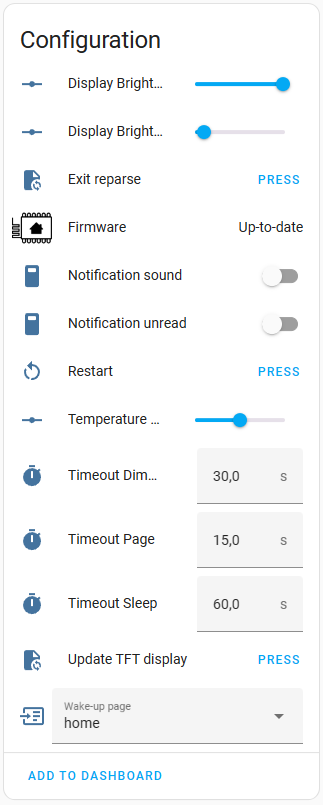
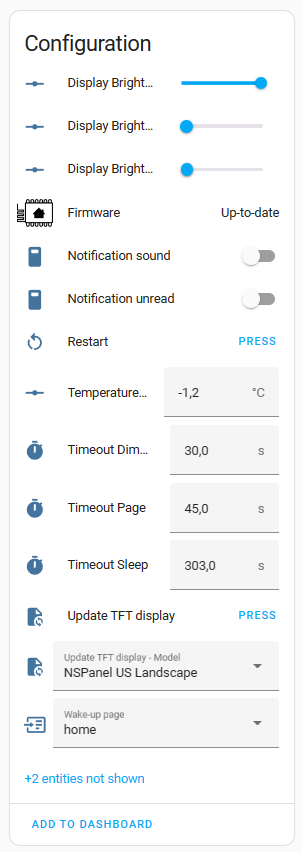
Uploading to Nextion

diff --git a/docs/install.md b/docs/install.md
@@ -103,7 +103,9 @@ Follow these steps to add a new device in the ESPHome Dashboard:
 
 10. For Wi-Fi credentials, use `!secret` for added security or input them directly. Learn about secrets in ESPHome: [Home Assistant Secrets in ESPHome](https://www.youtube.com/watch?v=eW4vKDeHh7Y).
 
-11. Optionally, adjust `nextion_update_url` to the URL of a TFT file hosted on an HTTP or HTTPS server, ensuring that the file is accessible to the NSPanel. This URL will be used by ESPHome to download the TFT file to your panel. For more information on hosting the TFT file and setting up the URL, see the [Upload TFT](#upload-tft) section.
+11. Optionally, adjust `nextion_update_url` to the URL of a TFT file hosted on an HTTP or HTTPS server, ensuring that the file is accessible to the NSPanel.
+This URL will be used by ESPHome to download the TFT file to your panel.
+For more information on hosting the TFT file and setting up the URL, see the [Upload TFT](#upload-tft) section.
 
 12. (Optional) Enhance security with API encryption by adding the copied key from step 6 to the **My Customization** area.
 
@@ -153,8 +155,8 @@ If that isn't happnening, you can manually add it as a new intgration with the f
 > to go directly to the dialog to add a new ESPHome device,
 > then you can go directly to step 3.
 
-1. Go to your [ESPHome integration's dashboard](https://my.home-assistant.io/redirect/integration/?domain=esphome) under **Settings** > **Devices & Services** > **ESPHome**.
-2. If your panel is detected, just click **Configure**, otherwise, click on **Add device**.
+1. Go to your [ESPHome integration's page](https://my.home-assistant.io/redirect/integration/?domain=esphome) under **Settings** > **Devices & Services** > **ESPHome**.
+2. If your panel is automatically discovered, just click **Configure**, otherwise, click on **Add device**.
 3. Enter your new panel's hostname or IP address and click **Next**.
 4. Follow the instructions from your Home Assistant to add your new panel.
 
@@ -162,7 +164,7 @@ After that, you will have access to the **Device's page** related to your NSPane
 
 It might take a minute or two until the device's page gets fully populated, but when that is completed, take a look around and get familiar with that page.
 
-You can always get back to the device's page under your [ESPHome integration's dashboard](https://my.home-assistant.io/redirect/integration/?domain=esphome).
+You can always get back to the device's page under your [ESPHome integration's page](https://my.home-assistant.io/redirect/integration/?domain=esphome).
 
 ### Making changes Over The Air (OTA)
 ##### Pending: (add instructions how to flash wirelessly)
@@ -183,14 +185,63 @@ Please try the standard process and if you find any issue, please [create a new 
 ## Upload TFT
 ##### Pending: 
 ### Select the right file
-##### Pending: 
+
+Open the device's page under [ESPHome integration's page](https://my.home-assistant.io/redirect/integration/?domain=esphome) and look for **Update TFT display** and **Update TFT display - Model** under the **Configuration** area.
+
+![image](pics/ha_device_configuration_tft_upload_controls.png)
+
+Expand the **Update TFT display - Model** control and find the model that better fits your panel:
+
+![image](pics/ha_device_configuration_tft_upload_model.png)
+
+The options are:
+- **Use `nextion_update_url`:** This will indicate ESPHome to download the TFT file from the URL
+you specified in your panel's yaml setting under the ESPHome dashboard and is typically used
+when your device have issues to transfer a TFT file directly from the GitHub repository or when
+you want to use a custom TFT file hosted in your local server.
+This is the default option and this keeps the compatibility with legacy installations when this was the only option.
+- **NSPanel Blank:** This is a very small TFT file which just shows a pre-formatted QR code on
+the screen with a link to the instructions. Although it's not a functional TFT for controlling your panel,
+it can be usefull when you have issues in your first TFT upload, as it will remove the
+*Nextion Active Reparse Mode* used when a Sonoff's TFT and also
+when some other custom implementations are installed.
+- **NSPanel EU:** This should be used when you are using a Sonoff NSPanel EU model.
+- **NSPanel US:** This should be used when you are using a Sonoff NSPanel US model installed on
+it's normal (portrait) position with the buttons bellow the screen.
+- **NSPanel US Landscape:** This should be used when you are using a Sonoff NSPanel US model
+installed on the landscape position with the buttons at the right side of the screen.
+- **NSPanel EU (CJK languages):** This should be used when you are using a Sonoff NSPanel EU model
+and want to use the CJK (Chinese/Japanese/Korean) languages.
+- **NSPanel US (CJK languages):** This should be used when you are using a Sonoff NSPanel US model
+installed on it's normal (portrait) position with the buttons bellow the screen,
+and want to use the CJK (Chinese/Japanese/Korean) languages.
+- **NSPanel US Landscape (CJK languages):** This should be used when you are using a Sonoff NSPanel US model
+installed on the landscape position with the buttons at the right side of the screen,
+and want to use the CJK (Chinese/Japanese/Korean) languages.
+
 ### Uploading to Nextion
+
+Once the right model is selected, please press the button **Update TFT display**.
+
+In a few seconds your display should start transferring the file correspondent to the selected model.
+The transfer screen shows a progress bar with a percentage counter with a black background.
+
+If the transfer don't starts in a few seconds, ESPHome will retry automatically a few times, with different transfer parameters, so the transfer can take up to a minute to start.
+
+Once started, the transfer shouldn't take more than 10 to 20 minutes. If after this time it isn't close to finnish, please cancel the process by restarting your device, then try it again.
+
+> [!TIP]
+> For troubleshooting TFT transfer issues, consult our [TFT Transfer Troubleshooting Guide](tft_upload.md) first.
+
 ##### Pending: 
 ### Troubleshooting TFT transfer issues
 We have an useful guide for [troubleshooting TFT transfer issues](tft_upload.md). Please take a look there.
 
 ## Blueprint
-This section provides guidance on importing the NSPanel HA Blueprint from our GitHub repository into your Home Assistant, creating a new automation for your panel setup, and updating the blueprint when new versions are available. These processes are straightforward with the latest versions of Home Assistant. If you have any questions or need clarification, please reach out to us.
+This section provides guidance on importing the NSPanel HA Blueprint from our GitHub repository into your Home Assistant,
+creating a new automation for your panel setup, and updating the blueprint when new versions are available.
+These processes are straightforward with the latest versions of Home Assistant.
+If you have any questions or need clarification, please reach out to us.
 
 ### Importing the Blueprint
 Importing the blueprint into Home Assistant is a simple process. Just click the button below and follow the steps:
